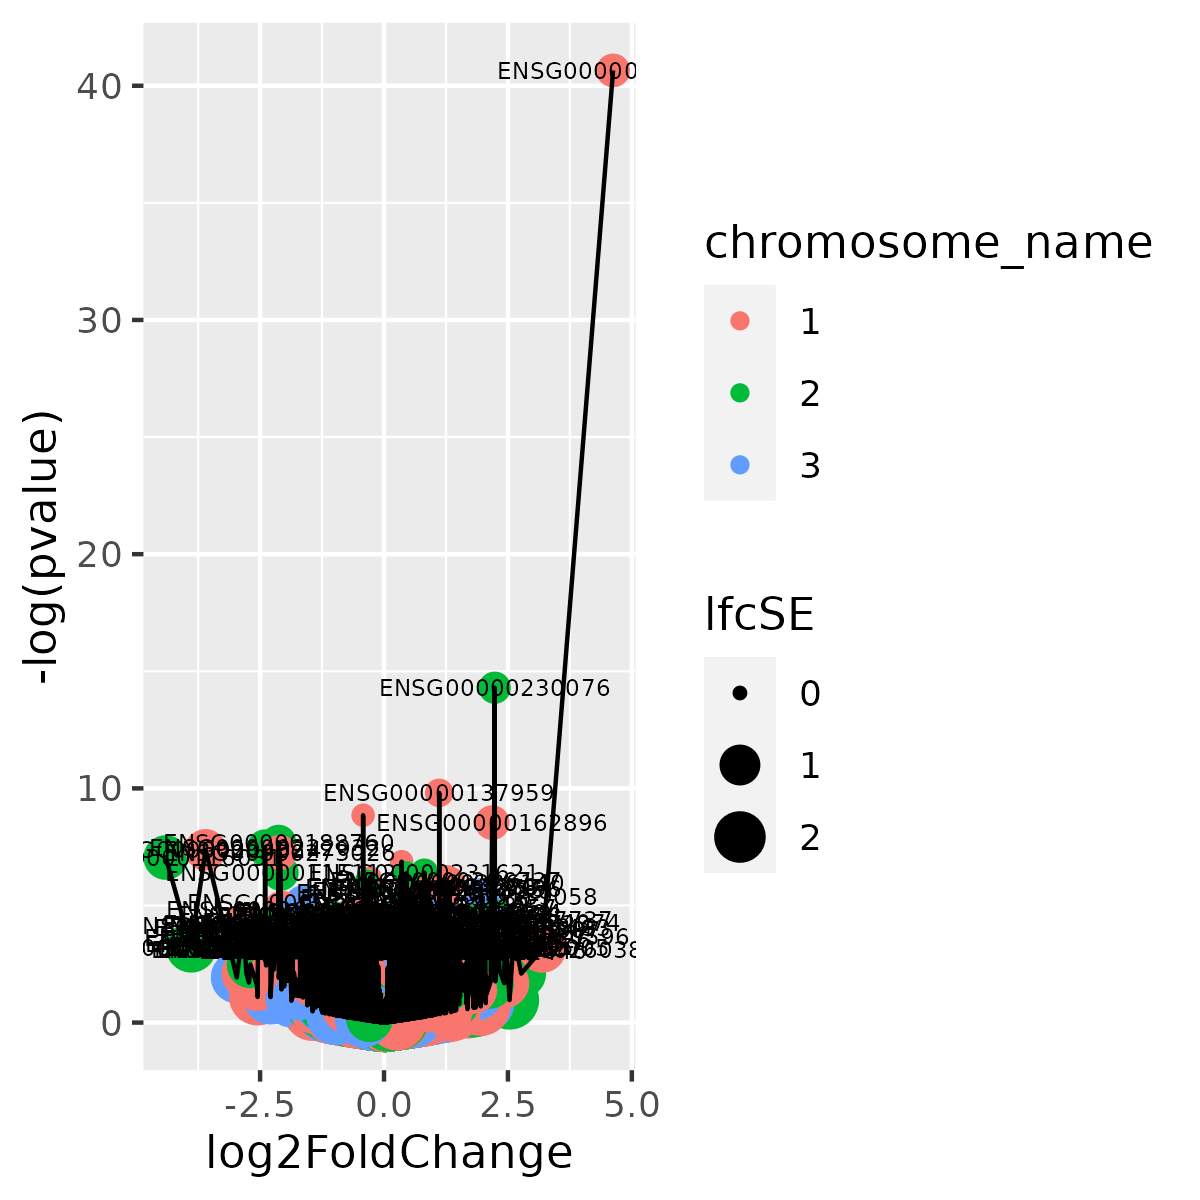
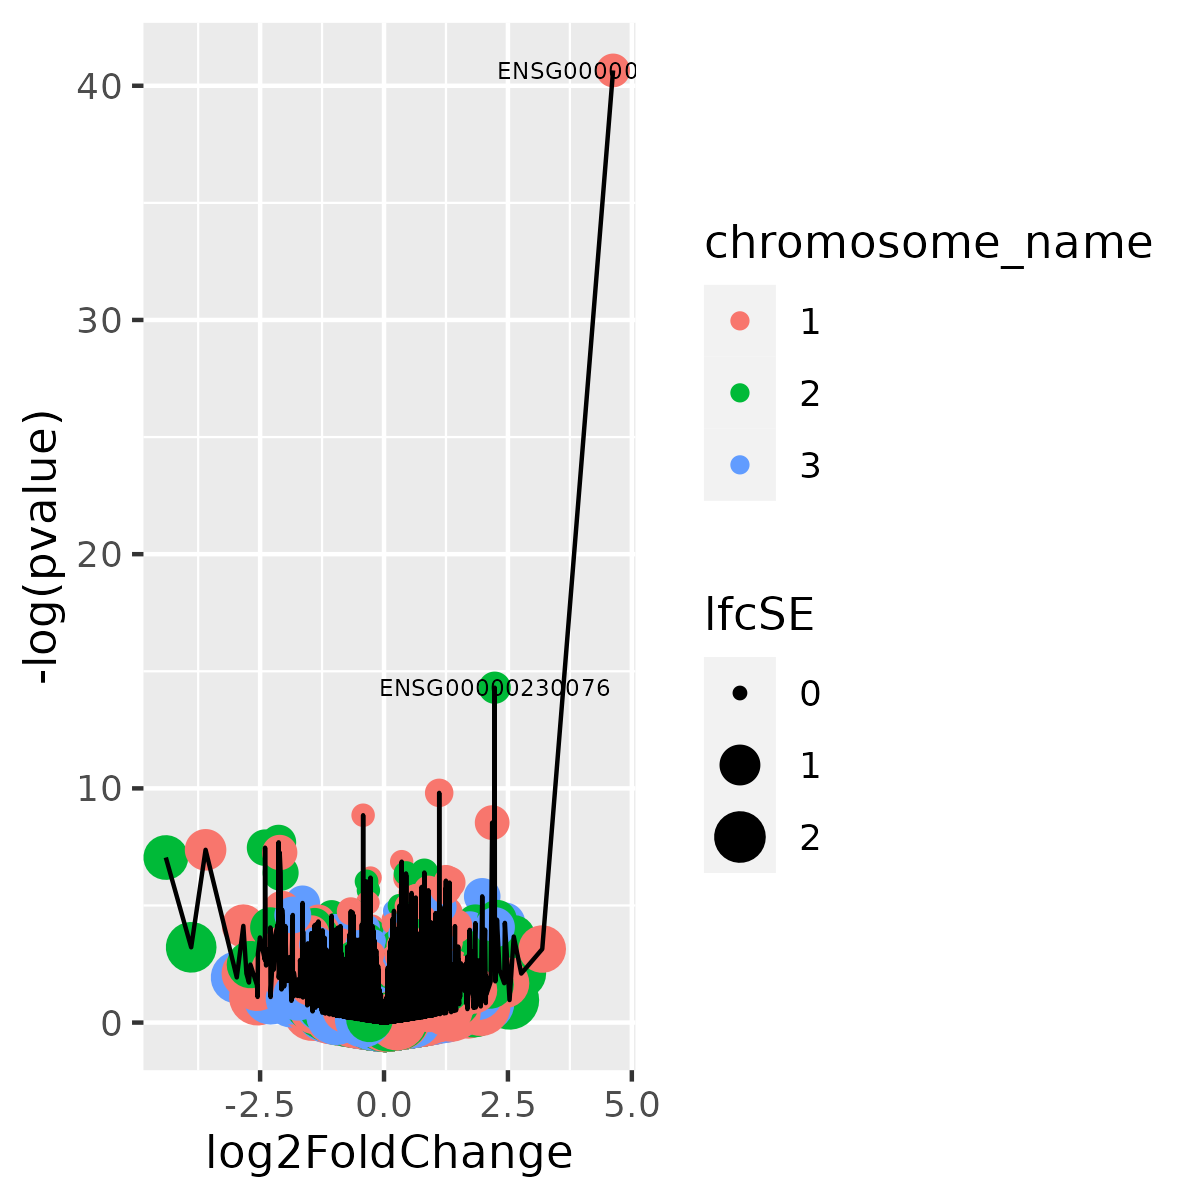
change size of plots

Changed region(s): [[0.1233, 0.6475, 0.5242, 0.8017]]

diff --git a/2_visualize_data/README.md b/2_visualize_data/README.md
@@ -76,7 +76,7 @@ ggplot() +
 
 The three ways makes exactly the same plot.
 
-![](images/001_starting.png)
+<p style="text-align:center;"><img src="images/001_starting.png" width = "400" height = "400"></p>
 
 Now we are going to explain the differences of the three ways. Imagine that we want to plot only results from chromosomes 1, 2 and 3 and create a new variable that label gene as significant or not (pvalue < 0.05 and abs(log2FoldChange) > 0.5). First, using `dplyr` filter the gene_info and join to results. Try for yourself to practice more with `dplyr`.
 
@@ -84,7 +84,7 @@ Now we are going to explain the differences of the three ways. Imagine that we w
 results_filt <- gene_info %>%
   filter(chromosome_name %in% c("1","2","3")) %>%
   inner_join(results, by = c("ensembl_gene_id" = "gene")) %>%
-  mutate(significant = ifelse(pvalue < 0.05 & abs(log2FoldChange) > 0.5,"Significant","No Significant"))
+  mutate(significant = ifelse(padj < 0.05 & abs(log2FoldChange) > 0.5,"Significant","No Significant"))
 ```
 
 Geometries have several properties that can be changed. For this example, we will change color and size of the points. In addition we can add as many layers as we want. For example we can add a **geom_line()** to plot a line that connect points. You can do it with conventional way.
@@ -95,7 +95,7 @@ ggplot(results_filt, aes(x = log2FoldChange, y = -log(pvalue))) +
   geom_line(color = "darkgreen")
 ```
 
-![](images/002_adding_layers.png)
+<p style="text-align:center;"><img src="images/002_adding_layers.png" width = "400" height = "400"></p>
 
 Mapping can serve to differ condition. In the results_filt table we have three columns that define categorical variables (gene (not useful, a lot of them), chromosome_name and significant). The other variables are numeric. For example, we want to differ chromosome_name by a color.
 
@@ -105,7 +105,7 @@ ggplot(results_filt, aes(x = log2FoldChange, y = -log(pvalue), color = chromosom
   geom_line()
 ```
 
-![](images/003_adding_color.png)
+<p style="text-align:center;"><img src="images/003_adding_color.png" width = "400" height = "400"></p>
 
 As you can see both lines and points get the aesthetic color property. But what if we only want to color points in base of chromosome_name?. We need to declare aesthetic inside **geom_point()**. And with this method, we are using the second way to introduce data and mapping in `ggplot2`. In this occasion we will add a new aesthetic property, the size. Instead of plot all points with the same size, we can change sizes according to a numeric variable such as lfcSE, for example. As we will use the same `x` and `y` we only need to declare them in **ggplot()**, but size and mainly color should be declare in **geom_point()**
 
@@ -115,7 +115,7 @@ ggplot(results_filt, aes(x = log2FoldChange, y = -log(pvalue))) +
   geom_line()
 ```
 
-![](images/004_color_points.png)
+<p style="text-align:center;"><img src="images/004_color_points.png" width = "400" height = "400"></p>
 
 The last way of introducing data (through geom functions) can be explained with an example of **geom_text()** function, that is used to write labels in the plot. In this example we wan to add labels from only significant genes. We can not include all the data in geom_text() because it will write all gene names.
 
@@ -125,7 +125,7 @@ ggplot(results_filt, aes(x = log2FoldChange, y = -log(pvalue))) +
   geom_line()+
   geom_text(aes(label = ensembl_gene_id), size = 2)
 ```
-![](images/005_error_text.png)
+<p style="text-align:center;"><img src="images/005_error_text.png" width = "400" height = "400"></p>
 
 That not what we want. We need to use different data for **geom_text()**. As other **mapping** are the same, it is not necessary to add in **geom_text()** but in occasion we would need to change them.
 
@@ -139,7 +139,7 @@ ggplot(results_filt, aes(x = log2FoldChange, y = -log(pvalue))) +
   geom_text(data = results_filt_text,aes(label = ensembl_gene_id), size = 2)
 ```
 
-![](images/006_good_text.png)
+<p style="text-align:center;"><img src="images/006_good_text.png" width = "400" height = "400"></p>
 
 That is what we wanted to plot. Until now, we have learnt how introduce data in `ggplot2`, how mapping some properties, how use some geometries and change the properties of them by setting (like color = "blue") or by aesthetic (like color = chromosome_name).
 
@@ -151,7 +151,7 @@ ggplot(results_filt, aes(x = log2FoldChange, y = -log(pvalue))) +
   geom_point(aes(size = lfcSE, color = chromosome_name))+
   geom_line()
 ```
-![](images/007_reorder_layers.png)
+<p style="text-align:center;"><img src="images/007_reorder_layers.png" width = "400" height = "400"></p>
 
 Now the points are over lines and text.
 
@@ -163,7 +163,7 @@ You may have notice that we talked about four different layers that were indispe
 ggplot(pheno_data, aes(x = cell_type))+
   geom_bar()
 ```
-![](images/008_stat_bar.png)
+<p style="text-align:center;"><img src="images/008_stat_bar.png" width = "400" height = "400"></p>
 
 We use **geom_bar()** to count the number of times that happen the aesthetic that we select. In this case, **geom_bar** calculate the number of rows that have the different levels of cell_type variable.
 
@@ -201,7 +201,7 @@ ggplot(pheno_data, aes(x = cell_type, color = gender, fill = disease_state))+
   geom_bar()
 ```
 
-![](images/009_color_and_fill.png)
+<p style="text-align:center;"><img src="images/009_color_and_fill.png" width = "400" height = "400"></p>
 
 As you can see fill and color give a different palette color to the variables that we have selected. But the color defined by default by `ggplot2` are usually not informative. In this case is very difficult differentiate color and fill because the colors are the same.
 
@@ -213,7 +213,7 @@ ggplot(pheno_data, aes(x = cell_type, color = gender, fill = disease_state))+
   scale_fill_brewer(type = "qual", palette = "Dark2")+
   scale_color_brewer(type = "qual", palette = "Set3")
 ```
-![](images/010_brewer_change_qual.png)
+<p style="text-align:center;"><img src="images/010_brewer_change_qual.png" width = "400" height = "400"></p>
 
 But in several times you would prefer to choose your custom palette. In the case of categorical data, you can use **scale_color_manual()** and **scale_fill_manual()** where you can select the color of each category.
 
@@ -226,4 +226,4 @@ ggplot(pheno_data, aes(x = cell_type, color = gender, fill = disease_state))+
                                 "Male" = "darkblue"))
 ```
 
-![](images/011_manual_change_qual.png)
+<p style="text-align:center;"><img src="images/011_manual_change_qual.png" width = "400" height = "400"></p>
